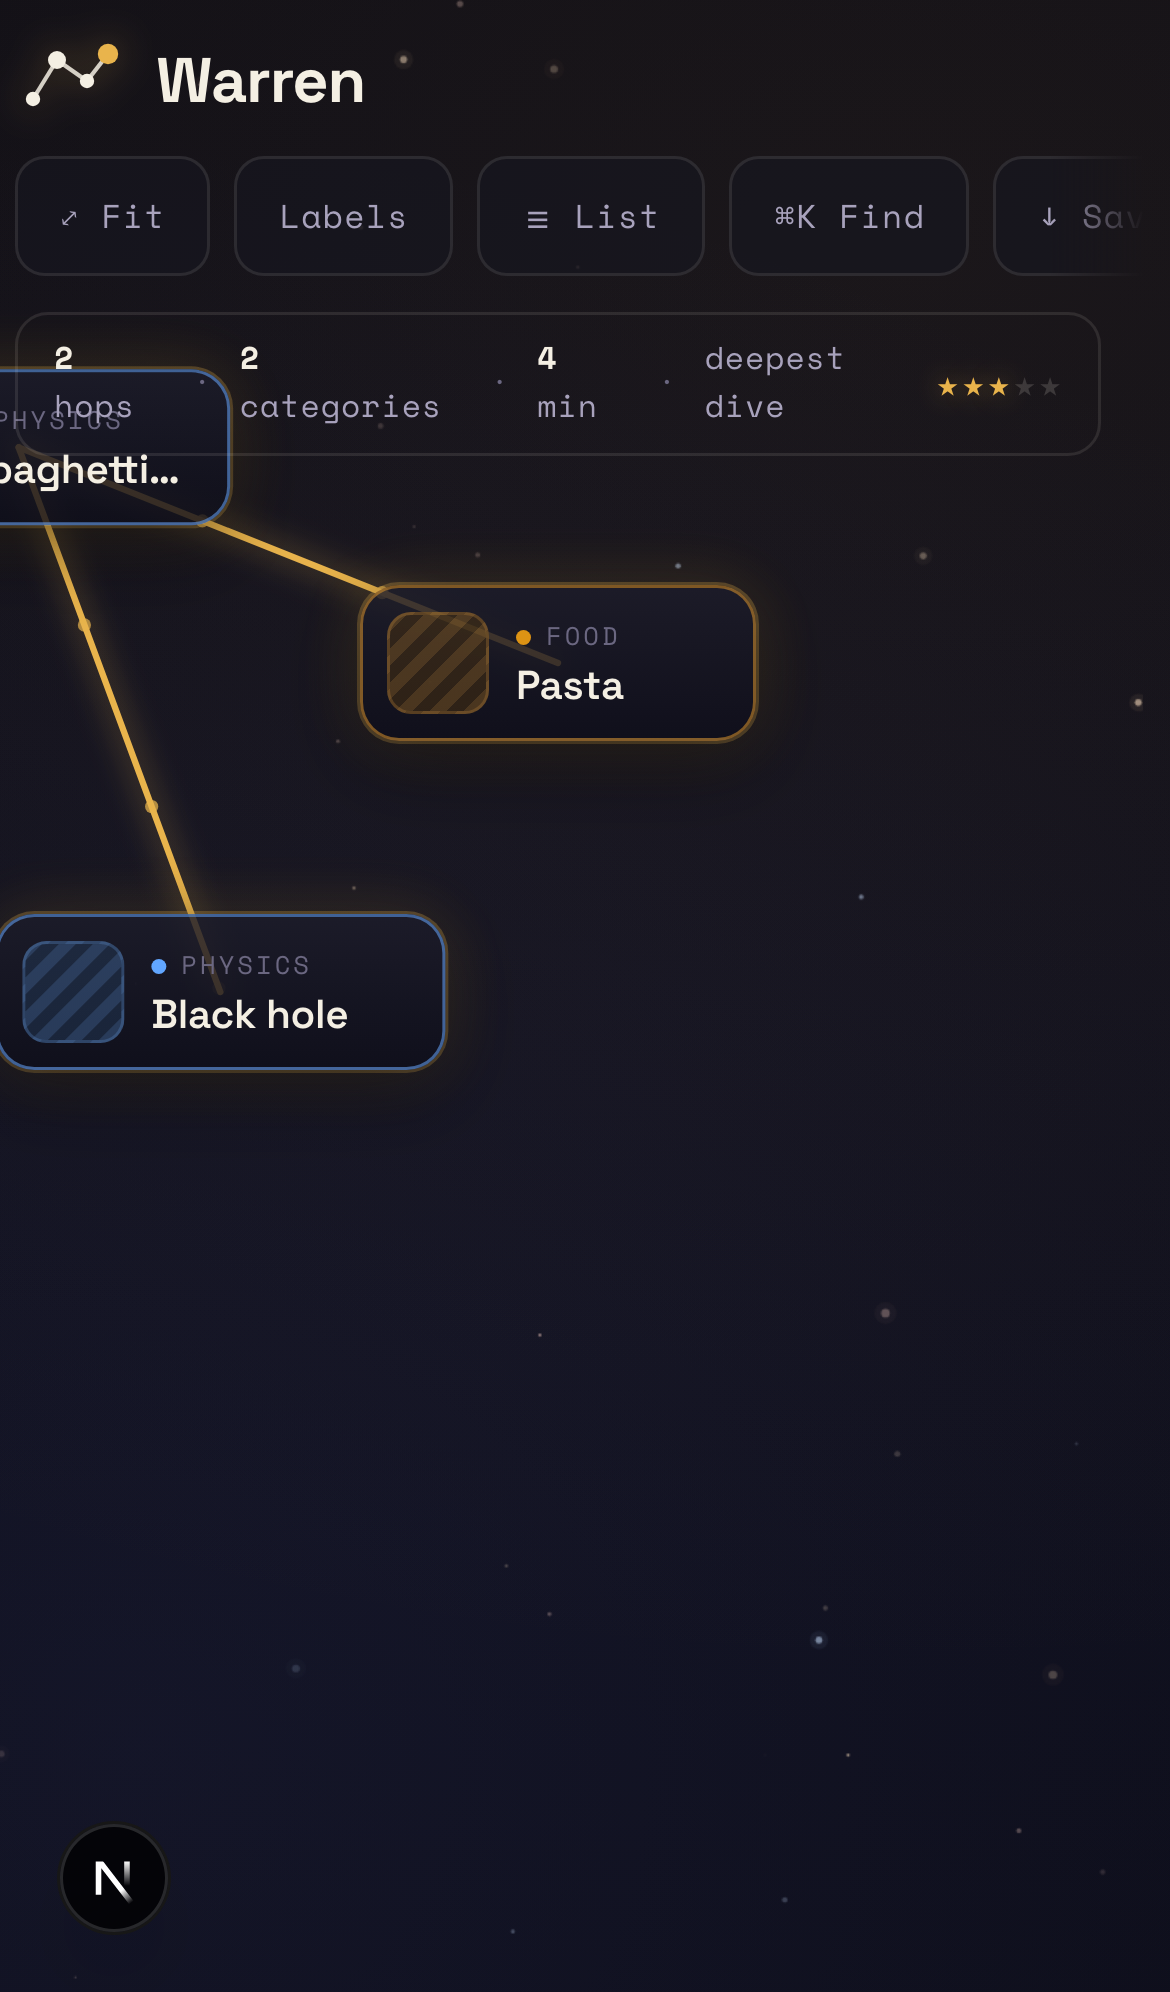
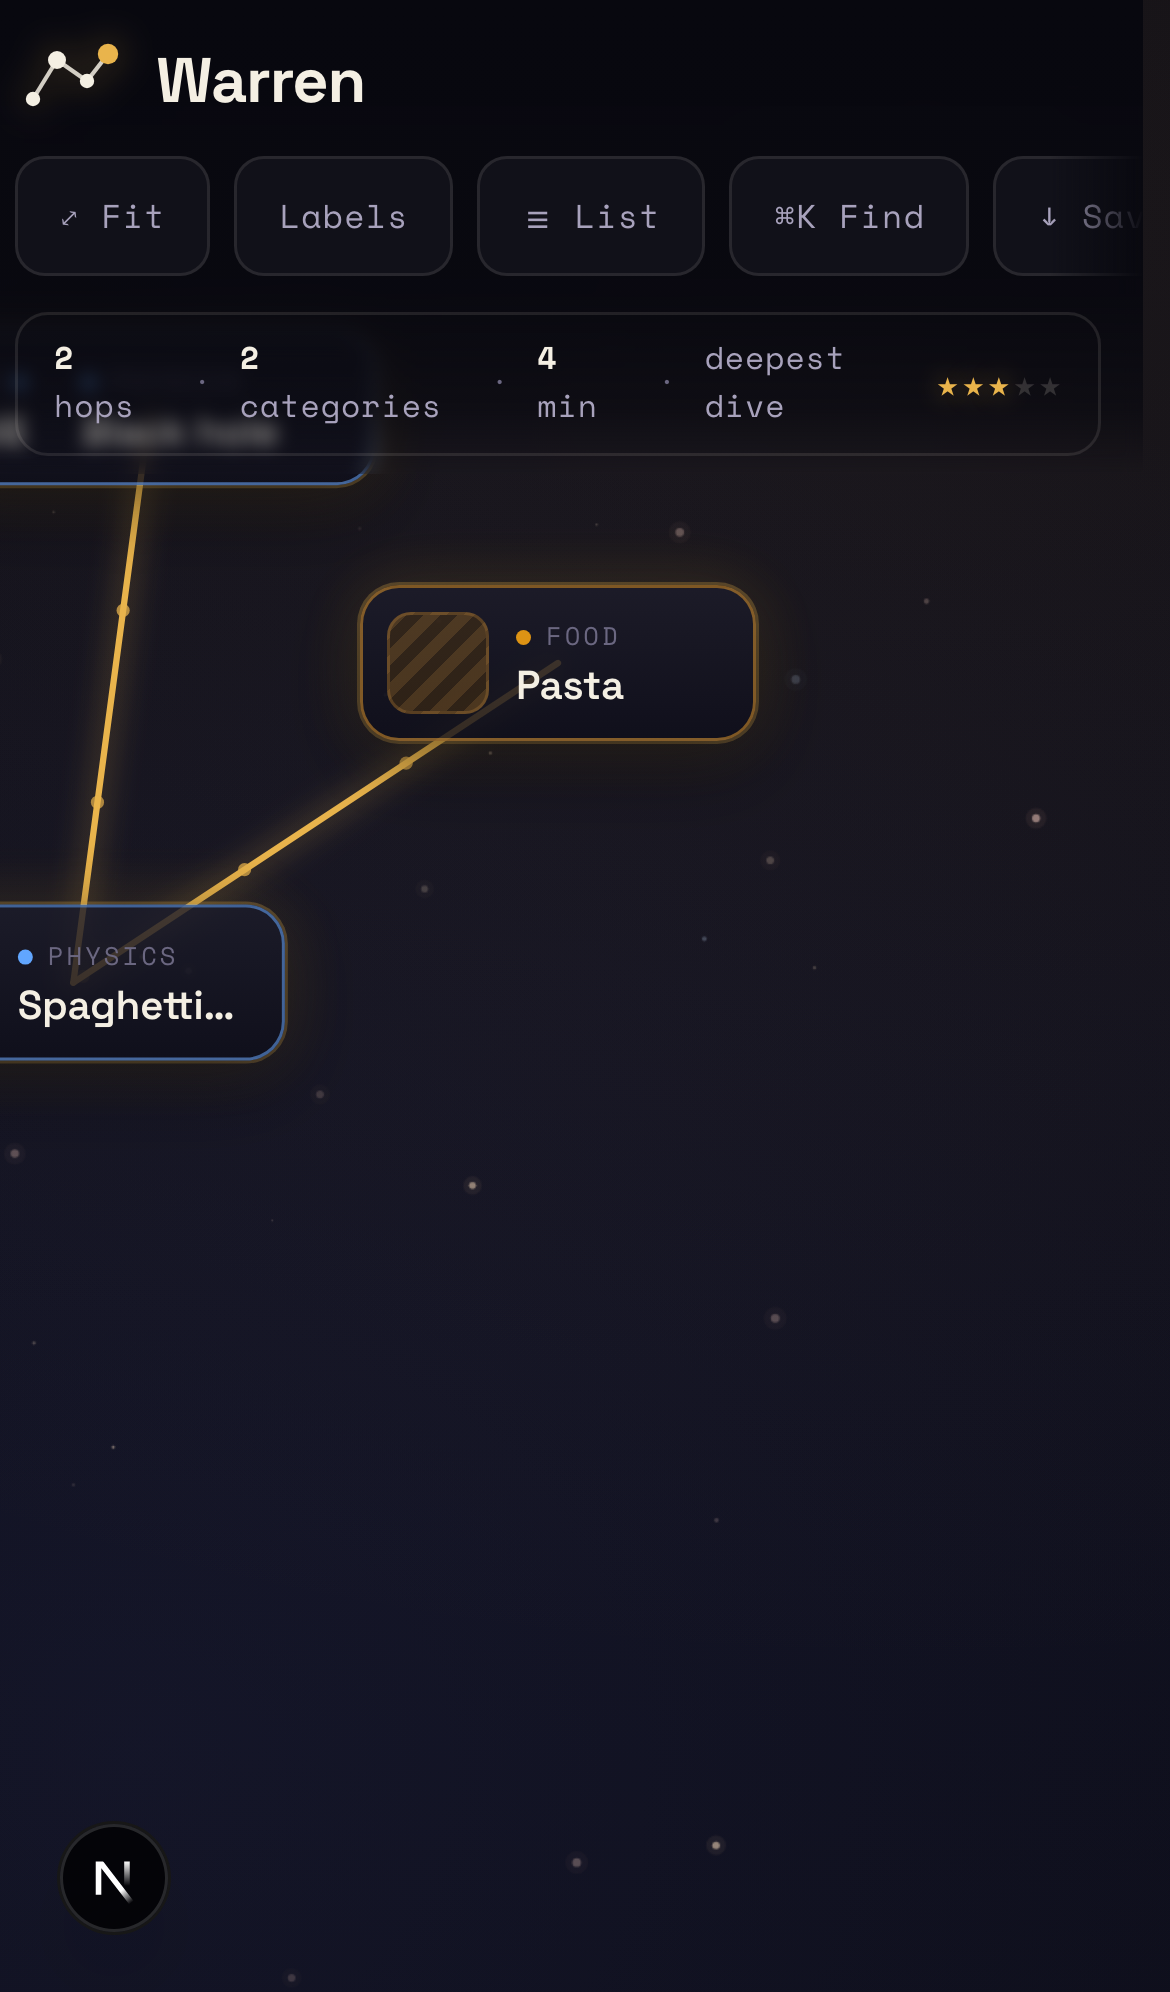
Fix mobile HUD: add top-band scrim so graph nodes don't bleed through controls/stats

diff --git a/src/app/explore.module.css b/src/app/explore.module.css
@@ -19,6 +19,12 @@
   pointer-events: none;
 }
 
+/* desktop: no scrim (HUD floats over the graph by design). On mobile it becomes a top
+   band that occludes nodes drifting under the controls/stat strip — see @media below. */
+.hudScrim {
+  display: none;
+}
+
 /* ---------- graph ---------- */
 .viewport {
   position: absolute;
@@ -987,6 +993,28 @@
    brand (row 1) → scrollable controls (row 2) → stat strip (row 3), each on its own line
    with no overlap. The graph sits beneath (z-index scale: graph 1 < HUD 10 < sheet 40). */
 @media (max-width: 880px) {
+  /* top band that occludes graph nodes behind the HUD (brand + controls + stats).
+     z 8 = above the graph (1), below the HUD (10). */
+  .hudScrim {
+    display: block;
+    position: absolute;
+    top: 0;
+    left: 0;
+    right: 0;
+    height: 158px;
+    z-index: 8;
+    pointer-events: none;
+    background: linear-gradient(
+      180deg,
+      var(--bg-0) 0%,
+      color-mix(in oklab, var(--bg-0), transparent 6%) 62%,
+      color-mix(in oklab, var(--bg-0), transparent 35%) 86%,
+      transparent 100%
+    );
+    -webkit-backdrop-filter: blur(3px);
+    backdrop-filter: blur(3px);
+  }
+
   /* brand: compact, top-left, single row */
   .header {
     top: 12px;

diff --git a/src/components/explore/ExploreMap.tsx b/src/components/explore/ExploreMap.tsx
@@ -383,6 +383,10 @@ export default function ExploreMap() {
         onReady={handleReady}
       />
 
+      {/* mobile-only backdrop behind the top HUD band so graph nodes that drift up there
+          are occluded instead of bleeding through the controls/stats */}
+      <div className={styles.hudScrim} aria-hidden="true" />
+
       {/* top-left brand + auto-title */}
       <header className={styles.header}>
         <div className={styles.brand}>